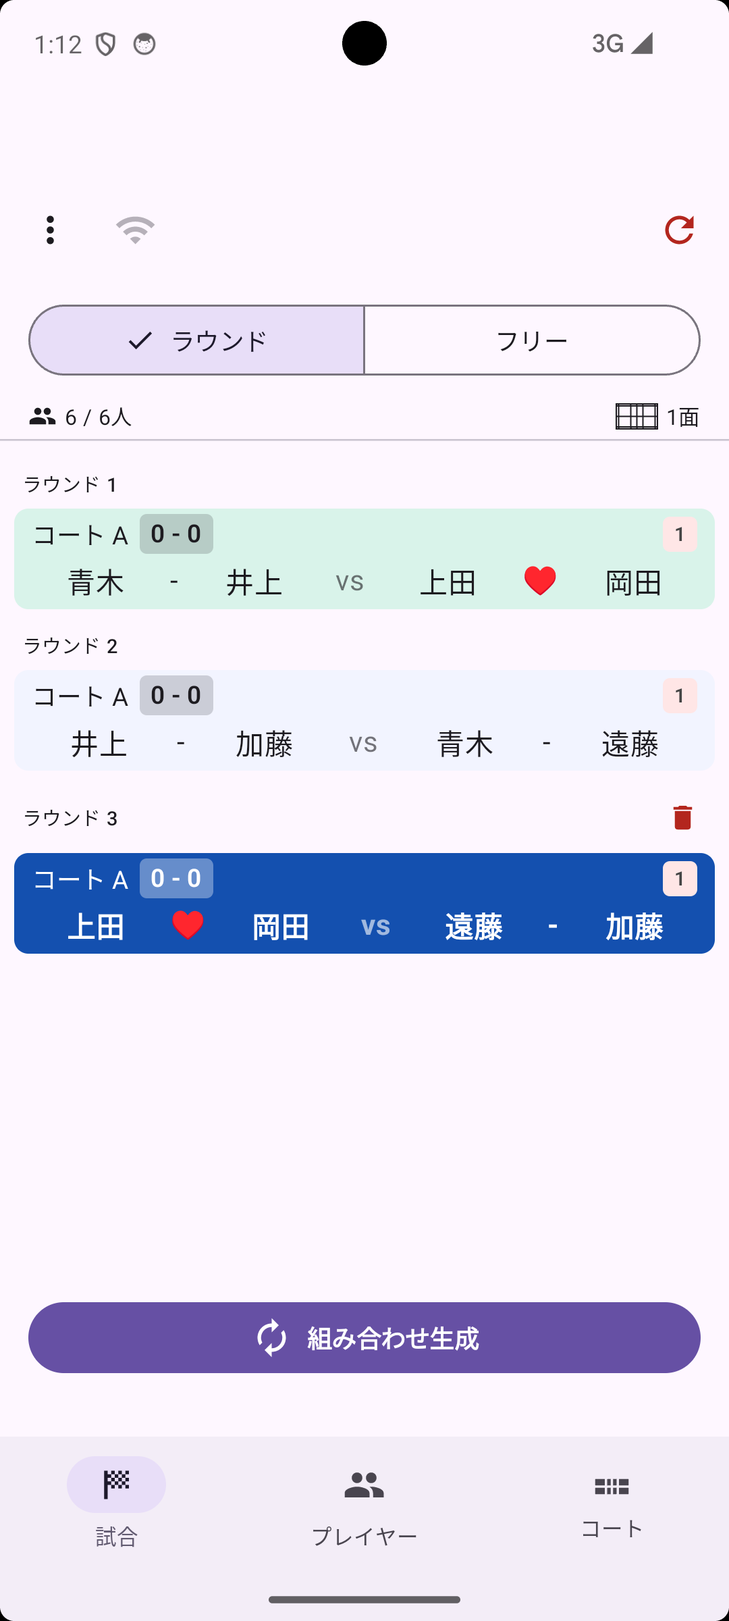
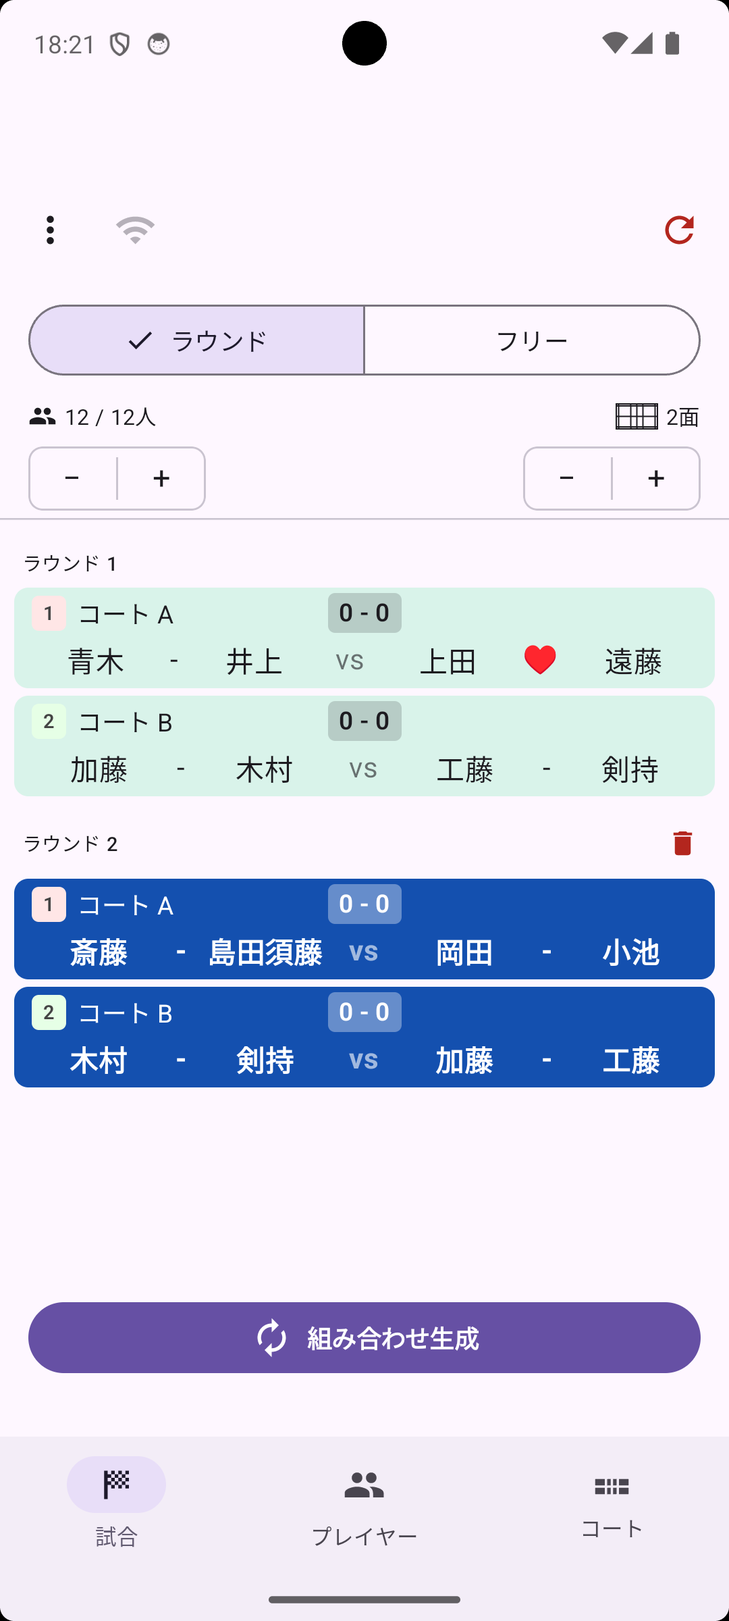
v1.2.17: 試合タブからのプレイヤー・コート追加、その他スクリーンショット更新を反映
「使ってみよう」ページの構成を iOS 版に合わせて変更：
- プレイヤータブ・コートタブを開かずに、試合タブから直接プレイヤー数・コート数を
  操作する新しいフローに変更（+/- ボタンの試合タブへの復活を反映）
- 見出し構成を「1.プレイヤー数設定→2.コート数設定→3.組み合わせ生成→4.次のラウンド生成」に整理

その他、既存の未コミット分の更新も統合：
- home.html, players-tab.html, game-tab.html, update-history.html の内容更新
- 各種スクリーンショットの差し替え（advanced-*, players-*, score-main など）
- advanced-free-mode-swipe.png を新規追加

diff --git a/players-tab.html b/players-tab.html
@@ -43,12 +43,14 @@
     </ul>
   </li>
   <li><a href="#shuffle">12. 開始順をシャッフルする</a></li>
+  <li><a href="#reorder">13. 表示順を並べ替える</a></li>
 </ul>
 </nav>
 
 <h2 id="add-remove">1. プレイヤーを追加・削除する</h2>
 <p>プレイヤータブ下部の <code>＋</code> / <code>－</code> ボタンをタップするだけで、プレイヤーの人数を簡単に増減できます（最低4人）。追加されたプレイヤーには、初期状態で「1」「2」「3」…という数字がそのまま名前として割り当てられます。特定の1人だけを削除したい場合は、編集画面右上のゴミ箱アイコン、またはリストの各行右端のゴミ箱アイコンから削除できます。</p>
 <div class="ss"><img src="images/players-plusminus.png" alt="プレイヤータブ・+/- ボタン"></div>
+<div class="note">⚠ 編集画面・一覧どちらのゴミ箱アイコンも、保存済みのメンバーデータベースから該当プレイヤーを完全に削除します（写真も削除されます）。この操作は元に戻せません。あくまで今回だけ欠席させたい場合は、削除ではなく行右端のトグルで「休憩」状態にしてください。</div>
 <div class="tip">💡 画面上部のテキストフィールドに名前を入力して <code>追加</code> をタップすると、名前付きでプレイヤーを追加することもできます。カンマ区切りで複数名を一度に入力できます（例：<code>Alice, Bob, Carol, Dave</code>）。</div>
 <div class="tip">💡 プレイヤーの追加・削除は、組み合わせ生成後や試合の途中からでも自由に行えます。飛び入り参加や途中退出にもそのまま対応できます。</div>
 
@@ -64,6 +66,7 @@
 <h2 id="rename">4. 名前を変更する</h2>
 <p>プレイヤータブでプレイヤーの行をタップすると編集画面が開きます。<strong>名前</strong> フィールドを編集してください。フィールドをタップして入力中は、右端に表示される <code>×</code> ボタンで入力内容を一括消去できます。</p>
 <div class="ss"><img src="images/player-edit-main.png" alt="プレイヤー編集画面"></div>
+<div class="tip">💡 編集画面上部のツールバーにある <code>▲</code> / <code>▼</code> アイコンで、一覧に戻らずそのまま前後のプレイヤーの編集画面に切り替えられます。複数人まとめて名前を確認・変更したいときに便利です。</div>
 
 <h2 id="level">5. レベルを設定する</h2>
 <p>各プレイヤーには <strong>1・2・3</strong> のレベルを設定できます。プレイヤータブのリスト左端にあるレベルバッジをタップするたびに 1→2→3→1 と切り替わります。編集画面の <strong>レベル</strong> からも変更できます。</p>
@@ -109,6 +112,7 @@
   <li><strong>DBを全消去</strong> — 保存したメンバーデータをすべて削除</li>
 </ul>
 <div class="ss"><img src="images/players-menu.png" alt="⋮ メニュー"></div>
+<div class="note">⚠ 「1」「2」のような数字だけの名前（名前を変更していない未命名のプレイヤー）は、<strong>保存</strong> をタップしてもメンバーデータベースには保存されません。誤って未命名のまま保存されてしまうのを防ぐためです。<strong>読込</strong> 実行時に見つかった場合も、読み込まずにデータベースから削除されます。名前を付けてから保存してください。</div>
 
 <h3 id="groups">グループについて</h3>
 <p>メンバーをグループに分類して保存しておくと、曜日や練習会ごとに異なるメンバーをすばやく読み込めます。</p>
@@ -122,6 +126,10 @@
 <h2 id="shuffle">12. 開始順をシャッフルする</h2>
 <p>組み合わせはプレイヤーリストの並び順をもとに決まります。同じメンバーで練習を重ねていると、試合タブの <code>↻</code> でゲームを初期化するたびに、毎回同じ組み合わせから始まってしまうことがあります。プレイヤータブ下部のシャッフルアイコン（🔀）をタップすると、プレイヤーの名前・レベル・出場設定などをリスト内でランダムに入れ替え、次の組み合わせの偏りを防げます。</p>
 <div class="tip">💡 シャッフルは、まだ1回も組み合わせを生成していない状態（初期化直後）でのみ実行できます。試合を始めた後にシャッフルしたい場合は、先に試合タブの <code>↻</code> リセットボタンで初期化してください。</div>
+
+<h2 id="reorder">13. 表示順を並べ替える</h2>
+<p>組み合わせはプレイヤーリストの並び順をもとに決まります。各行の左端にある並べ替えハンドル（<code>⋮⋮</code>）を長押ししてドラッグすると、その場でプレイヤーの表示順を入れ替えられます。</p>
+<div class="tip">💡 指を離すとその位置で確定します。一覧に戻る必要はありません。</div>
 
 </body>
 </html>

diff --git a/game-tab.html b/game-tab.html
@@ -58,6 +58,7 @@
 <p>プレイヤーは自動的に各コートへ割り振られ、同じ相手との組み合わせが続けて重ならないよう調整されます。1ラウンドが終わったらボタンをタップして次のラウンドを生成する、という流れで進行します。</p>
 <div class="ss"><img src="images/game-round-main.png" alt="ラウンドモードの組み合わせ一覧"></div>
 <div class="tip">💡 ラウンドとフリーは、試合の途中でも何度でも切り替えられます。切り替えてもそれまでの試合記録は保持されます。</div>
+<div class="tip">💡 プレイヤー数・コート数の表示の下にある <code>−</code> / <code>+</code> ボタンで、プレイヤータブ・コートタブを開かなくてもその場で人数・コート数を増減できます（タブレット向けの2ペイン表示では、プレイヤー・コート一覧が常に画面に表示されているため、このボタンはありません）。</div>
 
 <h3 id="undo">直前の組み合わせを取り消す</h3>
 <p>試合タブで、最後のラウンドの行の右端にあるゴミ箱アイコンをタップすると削除できます（削除できるのは直近のラウンドのみです）。プレイヤーの出場回数なども元の状態に戻ります。</p>
@@ -86,6 +87,7 @@
 <p>試合タブの試合行をタップすると、スコア入力画面が開きます（通常は縦向きで表示され、端末を横向きにすると2カラムのレイアウトに切り替わります）。画面は上から順に、<code>Game Point</code>（勝利に必要な得点）の設定と <code>終了</code> トグル、そのコートで何ゲーム目かを切り替える <code>G1 / G2 / G3</code> ピッカーとここまでの勝ちゲーム数（<code>A: 0 - 0 :B</code>）、プレイヤー表示、<code>エンド</code> / <code>サーブ</code> ボタン、得点ボタンという構成です。勝ちゲーム数とゲームピッカーのスコアは、常に <strong>ペアA:ペアB</strong> の順で固定表示され、後述のエンドチェンジを行っても入れ替わりません。</p>
 <p>プレイヤー表示には、それぞれ <strong>ペアA</strong> / <strong>ペアB</strong>（内部の pairA・pairB に対応）のラベルが付きます。こちらはエンドチェンジで実際の左右位置が入れ替わると、表示も一緒に切り替わります。</p>
 <div class="ss"><img src="images/score-main.png" alt="スコア入力画面"></div>
+<div class="tip">💡 プレイヤー名ボタンの左端には、プレイヤータブの編集画面で丸いアイコンをタップして設定した写真が表示されます（未設定の場合は人型のプレースホルダー）。</div>
 
 <h3 id="input-score">得点を入力する</h3>
 <p>青（ペアA）・赤（ペアB）の大きな正方形ボタンに、それぞれの現在の得点が数字で表示されています。このボタンをタップすると、そのペアに1点が加算されます。ボタンは画面左右の位置に固定されており、後述のエンドチェンジでペアが入れ替わると、表示される数字（担当するペア）もそれに合わせて切り替わります。</p>
@@ -120,10 +122,10 @@
 <div class="tip">💡 次のゲームが既に開始されている場合（得点が入っている場合）は上書きされません。</div>
 
 <h3 id="end-change">エンドチェンジ</h3>
-<p><code>エンド</code> ボタンをタップすると、左右のペアが入れ替わります（エンドチェンジ）。<strong>ペアA</strong> / <strong>ペアB</strong> のラベルや得点ボタンの表示も、実際にどちらの位置にいるかに合わせて自動的に入れ替わります。スコア履歴のドットも自動で反転します。</p>
+<p>ペアA・ペアB表示の間にある <code>⇆</code> ボタンをタップすると、左右のペアが入れ替わります（エンドチェンジ）。<strong>ペアA</strong> / <strong>ペアB</strong> のラベルや得点ボタンの表示も、実際にどちらの位置にいるかに合わせて自動的に入れ替わります。スコア履歴のドットも自動で反転します。</p>
 
 <h3 id="serve">サーブ権を変更する</h3>
-<p>ゲーム開始前（まだ得点が入っていない状態）に限り、<code>サーブ</code> ボタンでサービス権チームを入れ替えられます。また、プレイヤー名をタップすると、同ペア内でサーバーとレシーバーを入れ替えられます。</p>
+<p>ゲーム開始前（まだ得点が入っていない状態）に限り、「サーブ」表示の隣にある <code>⇆</code> ボタンでサービス権チームを入れ替えられます。また、プレイヤー名をタップすると、同ペア内でサーバーとレシーバーを入れ替えられます。</p>
 
 <h3 id="reset-score">スコアをリセットする</h3>
 <p>画面右上の <code>↻</code> アイコンから、そのゲームのスコアをリセットできます。</p>

diff --git a/getting-started.html b/getting-started.html
@@ -27,33 +27,32 @@
 <nav class="toc">
 <ul>
   <li><a href="#player-count">1. プレイヤー数を設定する</a></li>
-  <li><a href="#court-count">2. コート数を確認する</a></li>
+  <li><a href="#court-count">2. コート数を設定する</a></li>
   <li><a href="#generate">3. 組み合わせを生成する</a></li>
-  <li><a href="#reset-scores">4. 試合結果をリセットする</a></li>
+  <li><a href="#next-round">4. 次のラウンドを生成する</a></li>
 </ul>
 </nav>
 
-
-<div class="ss"><img src="images/game-overview.png" alt="空ゲーム"></div>
+<div class="ss"><img src="images/game-overview-with-add.png" alt="試合タブ・初期状態"></div>
 
 <h2 id="player-count">1. プレイヤー数を設定する</h2>
-<p><strong>プレイヤー</strong> タブを開きます。画面下部の <code>＋</code> / <code>－</code> ボタンでプレイヤー数を増減できます。</p>
-<p>初期状態では「1」「2」「3」…という番号が名前として割り当てられています。名前を変えるには、プレイヤー行をタップして編集画面を開いてください。</p>
-<p>画面上部のテキストフィールドに名前を入力して <code>追加</code> をタップすると、名前付きでプレイヤーを追加することもできます。カンマ区切りで複数名を一度に入力できます（例：<code>Alice, Bob, Carol, Dave</code>）。</p>
-<div class="ss"><img src="images/players-plusminus.png" alt="プレイヤータブの一覧"></div>
+<p><strong>試合</strong> タブの上部左側に「4 / 4人」と表示されています。この下にある <code>−</code> / <code>+</code> ボタンをタップするだけで、プレイヤー数を増減できます。</p>
+<div class="ss"><img src="images/game-players-add.png" alt="試合タブ・プレイヤー数設定"></div>
+<p>初期状態では「1」「2」「3」「4」という番号が名前として割り当てられています。詳しく名前を変えたい場合は、<strong>プレイヤー</strong> タブで編集できます。</p>
 
-<h2 id="court-count">2. コート数を確認する</h2>
-<p><strong>コート</strong> タブを開きます。画面下部の <code>＋</code> / <code>－</code> ボタンでコート数を調整してください。</p>
-<div class="ss"><img src="images/courts-list.png" alt="コートタブ"></div>
+<h2 id="court-count">2. コート数を設定する</h2>
+<p><strong>試合</strong> タブの上部右側に「1面」と表示されています。この下にある <code>−</code> / <code>+</code> ボタンをタップするだけで、コート数を増減できます。</p>
+<div class="ss"><img src="images/game-courts-add.png" alt="試合タブ・コート数設定"></div>
+<p>詳しくコート設定（名前やレベル）を変えたい場合は、<strong>コート</strong> タブで調整できます。</p>
 
 <h2 id="generate">3. 組み合わせを生成する</h2>
-<p><strong>試合</strong> タブを開いて <code>組み合わせ生成</code> ボタンをタップします。プレイヤーが各コートに自動で割り当てられます。</p>
-<div class="ss"><img src="images/game-round-main.png" alt="試合タブ・生成結果"></div>
-<p>ボタンをタップするたびに次のラウンドの組み合わせが追加されます。重複が少なくなるよう自動的に調整されます。</p>
+<p><strong>試合</strong> タブで <code>組み合わせ生成</code> ボタンをタップします。プレイヤーが各コートに自動で割り当てられます。</p>
+<div class="ss"><img src="images/game-round-main.png" alt="試合タブ・組み合わせ生成結果"></div>
+<p>各行が1つのコートの試合を示しています。左側に付いているバッジはレベルを、右側のスコアは現在のゲーム結果を表します。</p>
 
-<h2 id="reset-scores">4. 試合結果をリセットする</h2>
-<p>試合タブ右上の <code>↻</code>（リセット）アイコンをタップすると、確認アラート「ゲーム情報を削除」が表示されます。<strong>削除</strong> を選ぶと、これまでの試合結果がすべて削除されます（プレイヤー自体は削除されません）。</p>
-<div class="tip">💡 プレイヤーごと最初からやり直したい場合は、プレイヤータブの「プレイヤーのリセット」をご利用ください。</div>
+<h2 id="next-round">4. 次のラウンドを生成する</h2>
+<p>ボタンをもう一度タップすると、次のラウンドの組み合わせが追加されます。重複が少なくなるよう自動的に調整されます。スコアは前のラウンドが記録されたままになります。</p>
+<div class="tip">💡 試合タブ右上の <code>↻</code>（リセット）ボタンをタップすると、試合結果をリセットできます。</div>
 
 </body>
 </html>

diff --git a/update-history.html b/update-history.html
@@ -16,6 +16,33 @@
 <p class="back-link"><a href="home.html">← ホームに戻る</a></p>
 <h1>更新履歴</h1>
 
+<h2>v1.2.17</h2>
+<ul>
+  <li>プレイヤータブ・コートタブ下部の人数/面数表示を、「出場中の人数 / 全体の人数」のように試合タブと同じ形式に変更（iOS反映）</li>
+  <li>サーバー機能のWebスコア画面のスコア入力部を、ラベル行とプレイヤー行を分離してエンド入れ替えボタンが上下2人の間に来るように調整し、サーブ表示とサーブ入れ替えボタンも専用の行にまとめてアプリ本体のレイアウトと統一（iOS反映）</li>
+</ul>
+
+<h2>v1.2.16</h2>
+<ul>
+  <li>プレイヤータブの各行に並べ替えハンドルを追加し、長押し&amp;ドラッグで表示順を変更できるように変更（iOS反映）</li>
+</ul>
+
+<h2>v1.2.15</h2>
+<ul>
+  <li>試合タブにプレイヤー数・コート数の＋/－ボタンを追加し、Players/Courtsタブを開かなくてもその場で人数・コート数を調整できるように変更（iOS反映）</li>
+  <li>プレイヤータブの削除アイコンでの削除を、保存済みメンバーデータベースからも完全に削除するように変更（編集画面のゴミ箱ボタンと同じ挙動に統一）。また、未入力のまま追加した「1」「2」のような数字だけの名前はメンバーデータベースに保存・読込されないように変更（iOS反映）</li>
+  <li>プレイヤー編集画面に前後のプレイヤーへ切り替えるボタンを追加し、一覧に戻らず連続して編集できるように変更（iOS反映）</li>
+  <li>スコア入力画面のプレイヤー名ボタンを拡大し、左側にプレイヤー写真を表示するように変更（iOS反映）</li>
+  <li>サーバー機能のWebスコア画面で、コート一覧のレベルバッジがコート名の右に表示されていたのを左に修正（アプリ本体の表示と統一）</li>
+  <li>サーバー機能のWebスコア画面の「End」「Serve」テキストボタンを廃止し、アプリ本体と同じ位置に⇆アイコンボタンを配置</li>
+  <li>サーバー機能のWebスコア画面で、コート名に付くはずの「コート」表記（ローカライズ対応）とコート名・組み合わせ間の余白が抜けていたのを修正</li>
+</ul>
+
+<h2>v1.2.14</h2>
+<ul>
+  <li>スコア入力画面の独立した「End」「Serve」ボタンを廃止し、それぞれ入れ替え対象のすぐ近く（ペアA/ペアB表示の間、サーブ表示の隣）に小さな⇆アイコンボタンを配置（iOS反映）</li>
+</ul>
+
 <h2>v1.2.13</h2>
 <ul>
   <li>スコア画面に Game Point（1ゲームの勝利に必要な得点、デフォルト21）の設定を追加。バドミントン公式ルール（20点オールで2点差勝ち、29点オールで30点目の1点勝ち抜け）に従って自動的に勝敗を判定し、「終了」トグルを自動的にオンにするように変更（iOS反映）</li>

diff --git a/home.html b/home.html
@@ -18,7 +18,7 @@
 <body>
 
 <h1>くみあぷ（PairGen）</h1>
-<p><span class="badge">v1.2.13</span><span class="badge">対応 iOS v1.22.0</span></p>
+<p><span class="badge">v1.2.17</span><span class="badge">対応 iOS v1.22.0</span></p>
 <div class="note">⚠ This help is available in Japanese only. Please use your browser's auto-translate feature.</div>
 <p>くみあぷ（PairGen）はバドミントン・テニスなどのダブルス競技向けに、組み合わせを自動生成する Android と iOS のアプリです。参加人数とコート数を設定するだけで、重複を最小限に抑えた組み合わせをすぐに生成できます。</p>
 
@@ -61,16 +61,14 @@
 <ul>
   <li>Apple Watch連携なし（Wear OS版は未実装）</li>
   <li>音声入力によるプレイヤー名登録なし</li>
-  <li>プレイヤー一覧のドラッグ並べ替え未対応（削除はアイコンタップ）</li>
+  <li>プレイヤー一覧の並べ替えは、行の並べ替えハンドルを長押し&amp;ドラッグする方式（iOS版は行を直接長押し）。削除もアイコンタップ（iOS版はスワイプ）</li>
   <li>試合結果メール本文は英語のみ（UI本体は日本語対応）</li>
 </ul>
 
-<h2>バージョン 1.2.13 更新内容</h2>
+<h2>バージョン 1.2.17 更新内容</h2>
 <ul>
-  <li>スコア画面に Game Point（1ゲームの勝利に必要な得点、デフォルト21）の設定を追加。バドミントン公式ルールに従って自動的に勝敗を判定し、「終了」トグルを自動的にオンにするように変更</li>
-  <li>G1・G2が終了した直後、次のゲームのエンドとサーブ権を自動的に設定するように変更</li>
-  <li>コートタブの各行にアクティブ・レベル固定の設定をトグルとして直接表示し、タップして別画面を開く必要がないように変更</li>
-  <li>試合タブのコート表示レイアウトを調整し、プレイヤータブの試合数表示を「G」から「M」（Match）に変更</li>
+  <li>プレイヤータブ・コートタブ下部の人数/面数表示を、「出場中の人数 / 全体の人数」のように試合タブと同じ形式に変更</li>
+  <li>サーバー機能のWebスコア画面のスコア入力部を、ラベル行とプレイヤー行を分離してエンド入れ替えボタンが上下2人の間に来るように調整し、サーブ表示とサーブ入れ替えボタンも専用の行にまとめてアプリ本体のレイアウトと統一</li>
 </ul>
 
 <h2>フィードバック</h2>

diff --git a/index.html b/index.html
@@ -18,7 +18,7 @@
 <body>
 
 <h1>くみあぷ（PairGen）</h1>
-<p><span class="badge">v1.2.13</span><span class="badge">対応 iOS v1.22.0</span></p>
+<p><span class="badge">v1.2.17</span><span class="badge">対応 iOS v1.22.0</span></p>
 <div class="note">⚠ This help is available in Japanese only. Please use your browser's auto-translate feature.</div>
 <p>くみあぷ（PairGen）はバドミントン・テニスなどのダブルス競技向けに、組み合わせを自動生成する Android と iOS のアプリです。参加人数とコート数を設定するだけで、重複を最小限に抑えた組み合わせをすぐに生成できます。</p>
 
@@ -61,16 +61,14 @@
 <ul>
   <li>Apple Watch連携なし（Wear OS版は未実装）</li>
   <li>音声入力によるプレイヤー名登録なし</li>
-  <li>プレイヤー一覧のドラッグ並べ替え未対応（削除はアイコンタップ）</li>
+  <li>プレイヤー一覧の並べ替えは、行の並べ替えハンドルを長押し&amp;ドラッグする方式（iOS版は行を直接長押し）。削除もアイコンタップ（iOS版はスワイプ）</li>
   <li>試合結果メール本文は英語のみ（UI本体は日本語対応）</li>
 </ul>
 
-<h2>バージョン 1.2.13 更新内容</h2>
+<h2>バージョン 1.2.17 更新内容</h2>
 <ul>
-  <li>スコア画面に Game Point（1ゲームの勝利に必要な得点、デフォルト21）の設定を追加。バドミントン公式ルールに従って自動的に勝敗を判定し、「終了」トグルを自動的にオンにするように変更</li>
-  <li>G1・G2が終了した直後、次のゲームのエンドとサーブ権を自動的に設定するように変更</li>
-  <li>コートタブの各行にアクティブ・レベル固定の設定をトグルとして直接表示し、タップして別画面を開く必要がないように変更</li>
-  <li>試合タブのコート表示レイアウトを調整し、プレイヤータブの試合数表示を「G」から「M」（Match）に変更</li>
+  <li>プレイヤータブ・コートタブ下部の人数/面数表示を、「出場中の人数 / 全体の人数」のように試合タブと同じ形式に変更</li>
+  <li>サーバー機能のWebスコア画面のスコア入力部を、ラベル行とプレイヤー行を分離してエンド入れ替えボタンが上下2人の間に来るように調整し、サーブ表示とサーブ入れ替えボタンも専用の行にまとめてアプリ本体のレイアウトと統一</li>
 </ul>
 
 <h2>フィードバック</h2>

diff --git a/reverse-lookup.html b/reverse-lookup.html
@@ -27,13 +27,14 @@
   <li><a href="players-tab.html#status">誰が今試合中か、休憩中かを一目で知りたい</a></li>
   <li><a href="players-tab.html#save-load">名簿を保存して次回も使い回したい</a></li>
   <li><a href="players-tab.html#groups">曜日や練習会ごとにメンバーを分けて管理したい</a></li>
+  <li><a href="players-tab.html#reorder">組み合わせの優先順位を来た順にしたい</a></li>
 </ul>
 
 <h2>レベル・コート設定</h2>
 <ul>
   <li><a href="advanced.html#level-split">初級者・上級者を分けてコートに割り当てたい</a></li>
   <li><a href="advanced.html#mix-doubles">男女混合や実力差のある2人を必ずペアにしたい</a></li>
-  <li><a href="courts-tab.html#level-fixed-free">特定のコートは誰でも入れるようにしたい</a></li>
+  <li><a href="courts-tab.html#court-config">特定のコートは誰でも入れるようにしたい</a></li>
   <li><a href="courts-tab.html#court-name">コート名をA・B・Cから数字に変えたい（またはその逆）</a></li>
 </ul>
 
